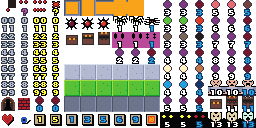
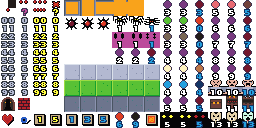
cleanup

diff --git a/src/game.c b/src/game.c
@@ -632,7 +632,7 @@ static i32 tile_info(
       break;
     case T_CHEST_HEAL:
       switch (action) {
-        case TI_ICON: return TILE(64, 32);
+        case TI_ICON: return TILE(208, 96);
         case TI_THREAT: return 0;
         case TI_COLLECT: return replace_type(game, handler, T_ITEM_HEAL);
         case TI_ATTACK: return 0;
@@ -640,7 +640,7 @@ static i32 tile_info(
       break;
     case T_CHEST_EYE2:
       switch (action) {
-        case TI_ICON: return TILE(64, 32);
+        case TI_ICON: return TILE(208, 96);
         case TI_THREAT: return 0;
         case TI_COLLECT: return replace_type(game, handler, T_ITEM_EYE2);
         case TI_ATTACK: return 0;
@@ -648,7 +648,7 @@ static i32 tile_info(
       break;
     case T_CHEST_EXP:
       switch (action) {
-        case TI_ICON: return TILE(64, 32);
+        case TI_ICON: return TILE(208, 96);
         case TI_THREAT: return 0;
         case TI_COLLECT: return replace_type(game, handler, T_ITEM_EXP5);
         case TI_ATTACK: return 0;
@@ -832,7 +832,7 @@ static i32 tile_info(
       break;
     case T_ITEM_LV3B0:
       switch (action) {
-        case TI_ICON: return TILE(32, 96);
+        case TI_ICON: return TILE(192, 16);
         case TI_THREAT: return 0;
         case TI_COLLECT: return replace_type(game, handler, T_EMPTY);
         case TI_ATTACK: return 0;
@@ -840,7 +840,7 @@ static i32 tile_info(
       break;
     case T_ITEM_LV3C0:
       switch (action) {
-        case TI_ICON: return TILE(48, 96);
+        case TI_ICON: return TILE(192, 32);
         case TI_THREAT: return 0;
         case TI_COLLECT: return replace_type(game, handler, T_EMPTY);
         case TI_ATTACK: return 0;

diff --git a/src/main.c b/src/main.c
@@ -1798,7 +1798,11 @@ static i32 book_info(enum book_enum book, enum book_info_action action) {
         case BI_DRAW: return DRAW(4, 0, 0);
         case BI_CHECK:
           CHECKG();
-          return count_dead(T_LV3B, 5);
+          return (
+            count_dead(T_LV3B, 5) +
+            count_dead(T_ITEM_LV3B0, 5) +
+            count_dead(T_ITEM_EXP6, 5)
+          );
         case BI_CLICK: return book_click_single(scr_how1_o);
       }
       break;
@@ -1807,7 +1811,11 @@ static i32 book_info(enum book_enum book, enum book_info_action action) {
         case BI_DRAW: return DRAW(5, 0, 0);
         case BI_CHECK:
           CHECKG();
-          return count_dead(T_LV3C, 5);
+          return (
+            count_dead(T_LV3C, 5) +
+            count_dead(T_ITEM_LV3C0, 5) +
+            count_dead(T_ITEM_EXP9, 5)
+          );
         case BI_CLICK: return book_click_single(scr_how1_o);
       }
       break;
@@ -1942,7 +1950,7 @@ static i32 book_info(enum book_enum book, enum book_info_action action) {
         case BI_DRAW: return DRAW(0, 2, 0);
         case BI_CHECK:
           CHECKG();
-          return game->difficulty >= 3 && game->difficulty <= 4 ? 10 : 0;
+          return game->difficulty >= 2 && game->difficulty <= 4 ? 10 : 0;
         case BI_CLICK: return book_click_single(scr_how1_o);
       }
       break;

diff --git a/src/game.h b/src/game.h
@@ -27,7 +27,7 @@ typedef int32_t  i32;
 #define BOARD_CH    (BOARD_H >> 1)
 #define BOARD_SIZE  (BOARD_W * BOARD_H)
 
-#define GENERATE_SIZE  128
+#define GENERATE_SIZE  1024
 
 struct game_st {
   struct rnd_st rnd;
